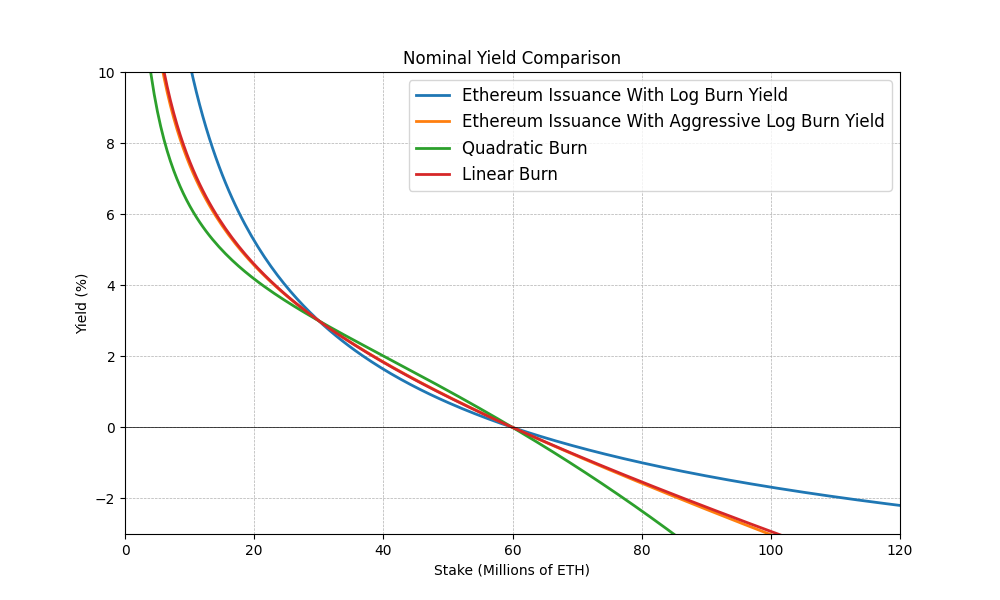
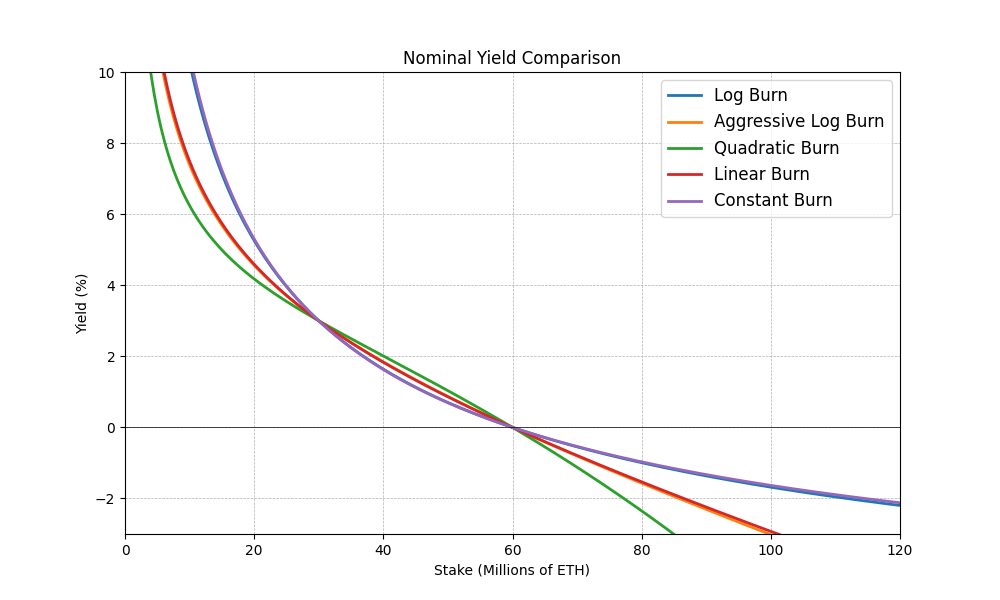
add baguette candidates

diff --git a/curve_picker/stake_cap_catalogue_with_baguette.py b/curve_picker/stake_cap_catalogue_with_baguette.py
@@ -17,11 +17,11 @@ from issuance import issuance
 
 
 curves = [
-    log_burn,
-    aggressive_log_burn,
-    quadratic_burn,
-    linear_burn,
-    constant_burn,
+    log_burn_baguette,
+    aggressive_log_burn_baguette,
+    quadratic_burn_baguette,
+    linear_burn_baguette,
+    constant_burn_baguette,
 ]
 
 
@@ -186,7 +186,7 @@ ax.axhline(y=0, color="k", linewidth=0.5)
 ax.axvline(x=0, color="k", linewidth=0.5)
 ax.legend(fontsize=12)
 
-fig.savefig(combined_plot_dir / "nominal_yield_comparison.png", dpi=fig.dpi)
+fig.savefig(combined_plot_dir / "nominal_yield_comparison_baguette.png", dpi=fig.dpi)
 plt.close(fig)
 
 fig, ax = plt.subplots(figsize=(10, 6))
@@ -207,5 +207,5 @@ ax.axhline(y=0, color="k", linewidth=0.5)
 ax.axvline(x=0, color="k", linewidth=0.5)
 ax.legend(fontsize=12)
 
-fig.savefig(combined_plot_dir / "issuance_curve_comparison.png", dpi=fig.dpi)
+fig.savefig(combined_plot_dir / "issuance_curve_comparison_baguette.png", dpi=fig.dpi)
 plt.close(fig)
